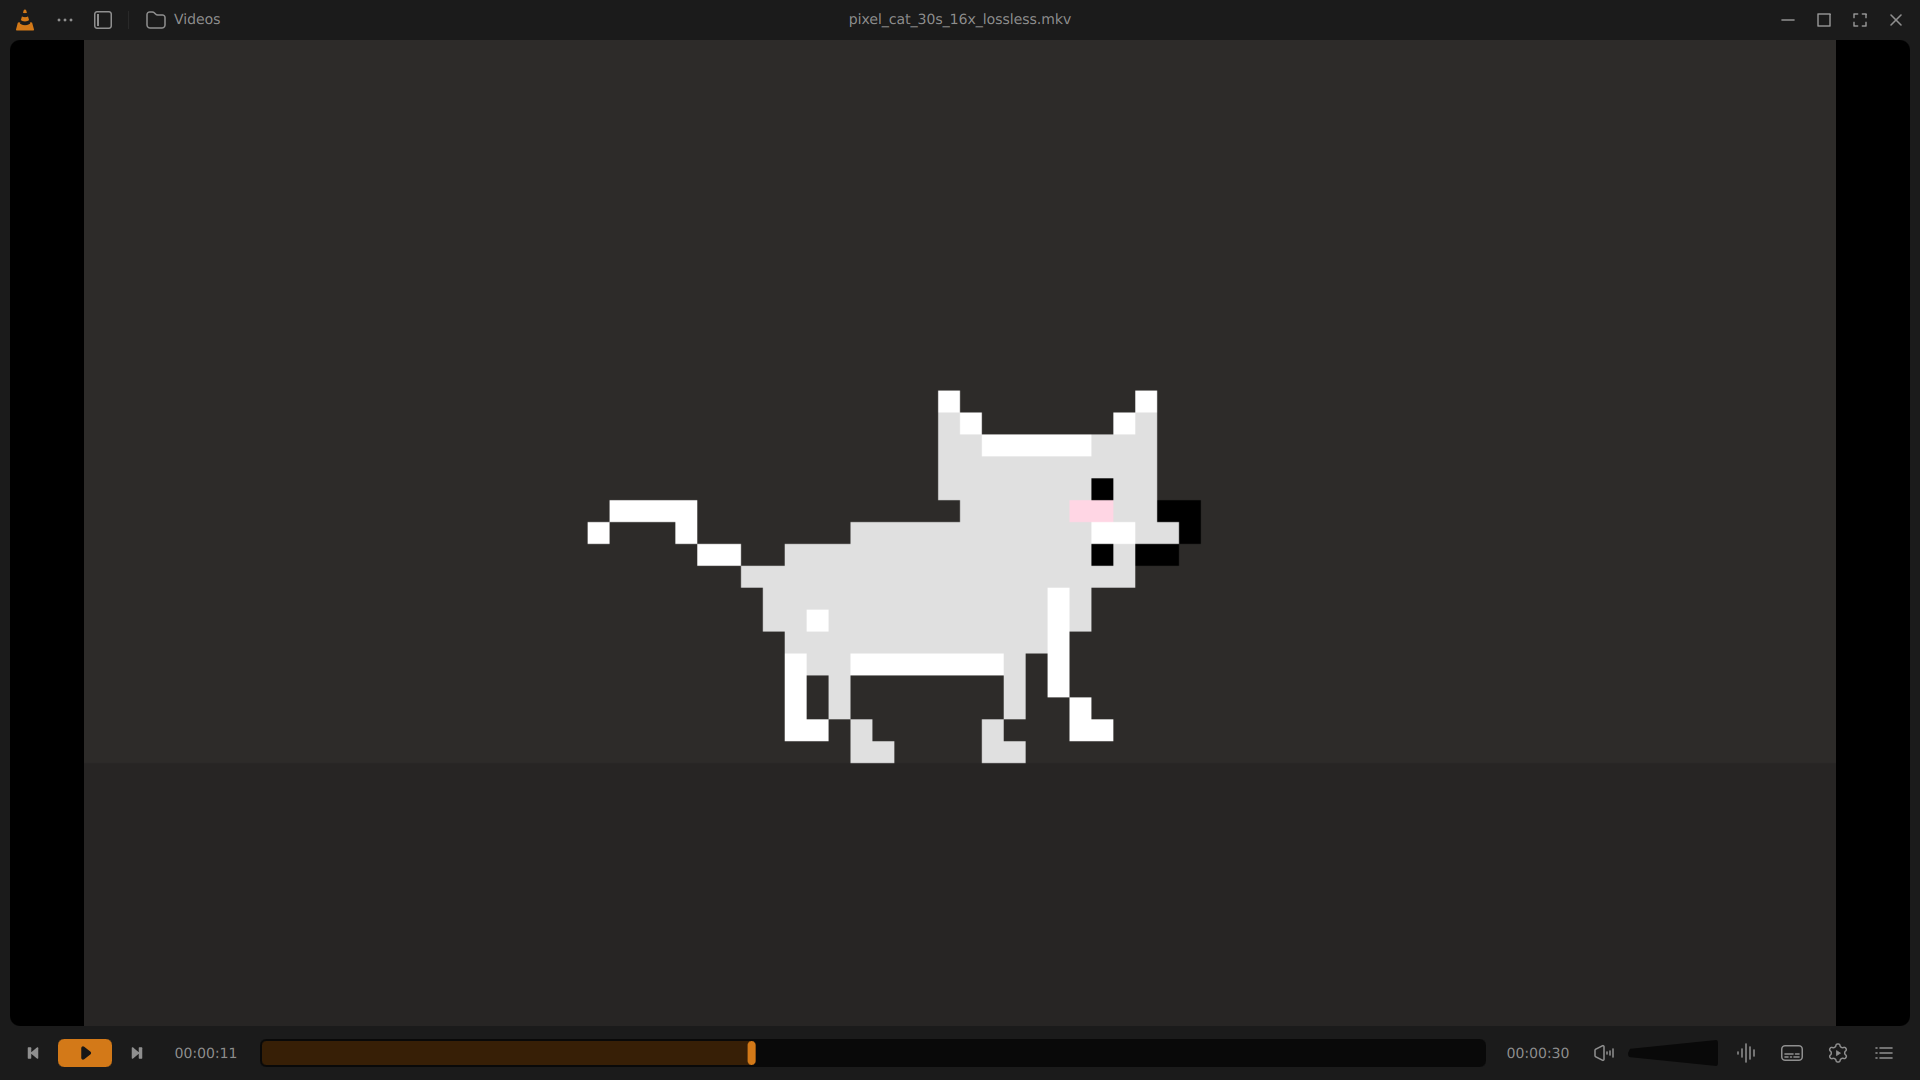
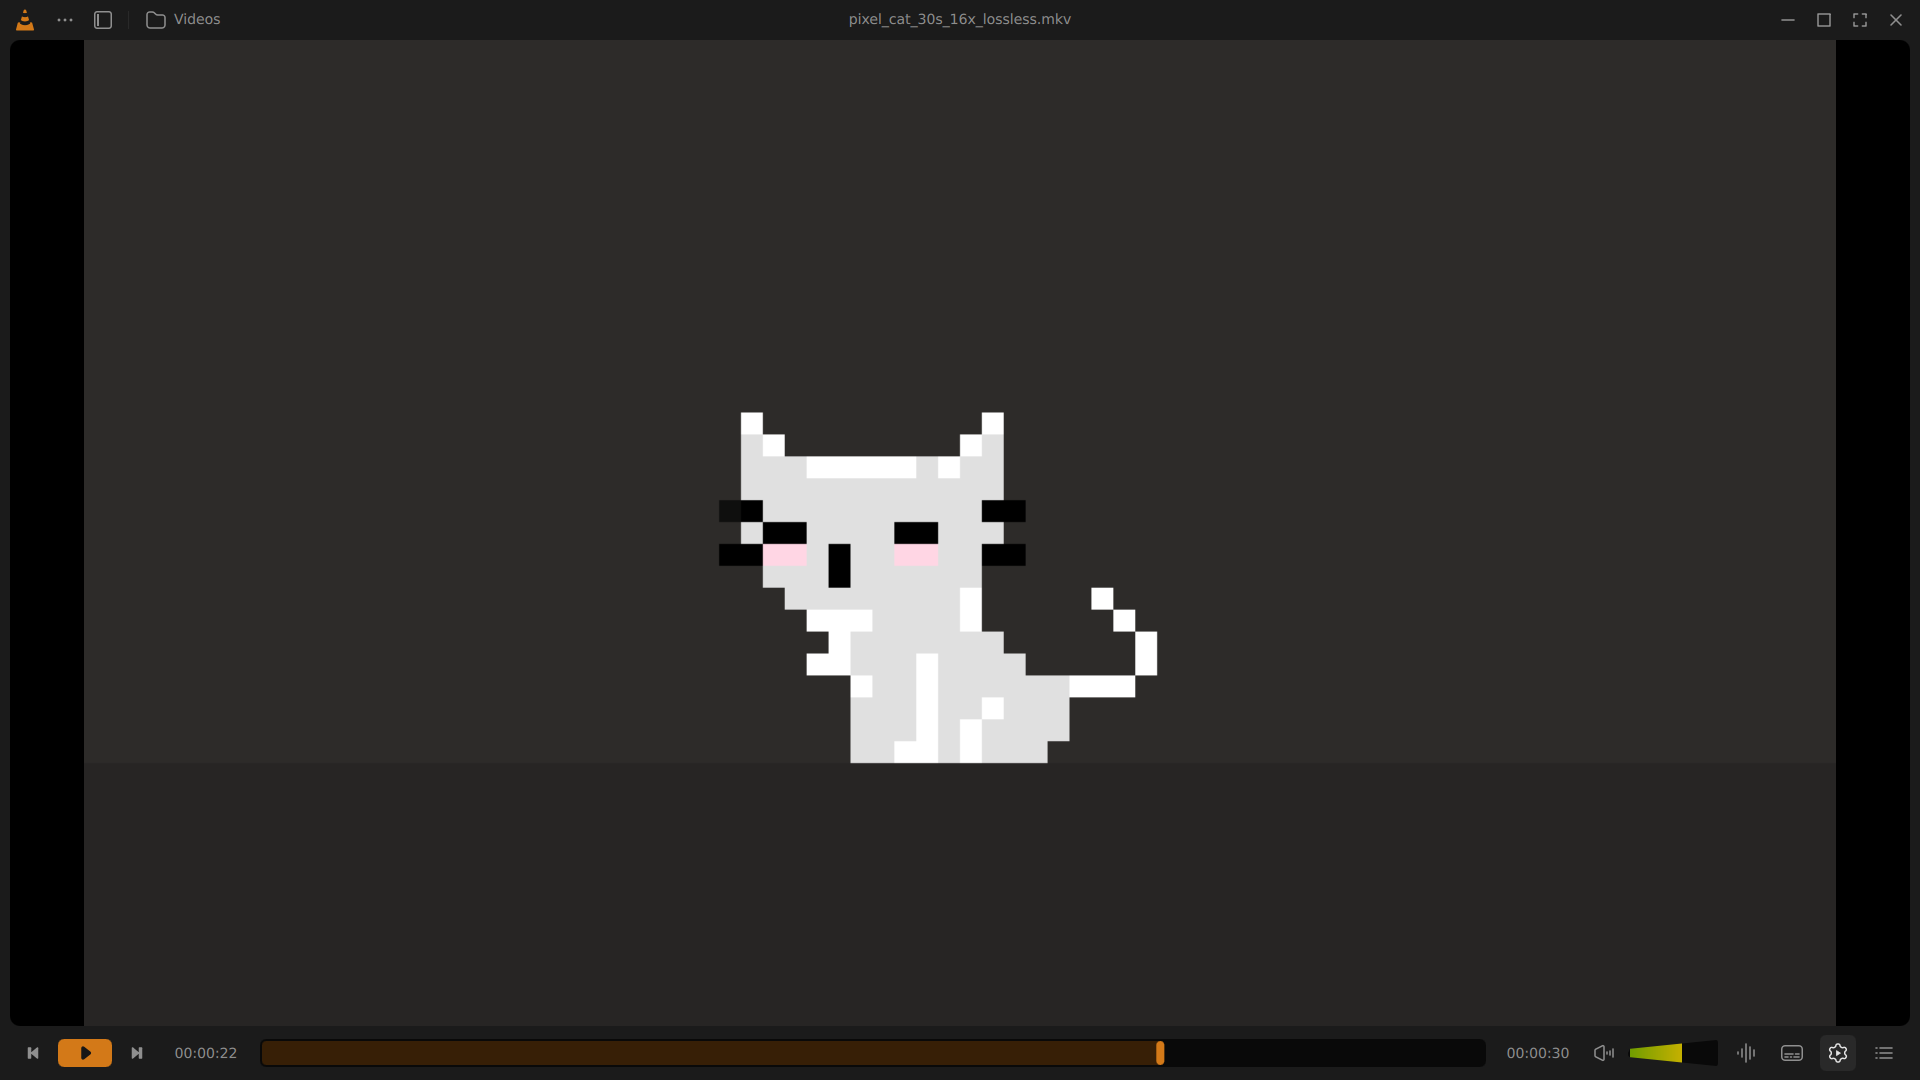
docs: refresh player screenshots at 22 seconds and 75 percent volume

diff --git a/README.md b/README.md
@@ -10,11 +10,6 @@ See the [Releases page](https://github.com/dsojevic/vlc/releases) for Windows be
 | --- | --- |
 | ![Library sidebar over the video](doc/images/redesign/sidebar.png) | ![Video settings over the video](doc/images/redesign/video-settings.png) |
 
-These screenshots show the native Linux interface with the supplied pixel-cat video.
-The sidebar and settings panel sit over the video. The original design is by
-[Juxtopposed](https://www.juxtopposed.com/), under
-[CC BY 4.0](https://creativecommons.org/licenses/by/4.0/).
-
 **VLC** is a libre and open source **media player** and **multimedia engine**,
 focused on **playing everything**, and **running everywhere**.
 
